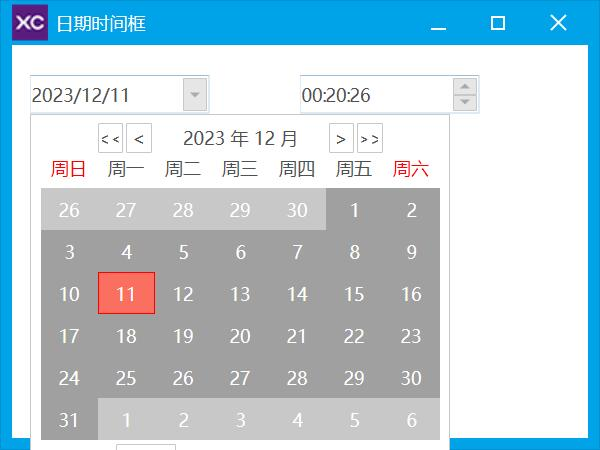
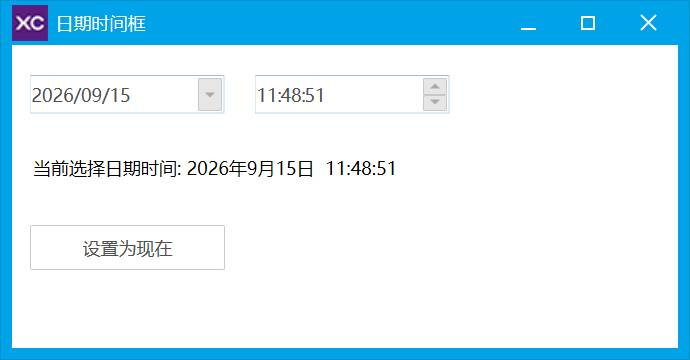
日期时间框

diff --git a/Basic/DateTime/DateTime.go b/Basic/DateTime/DateTime.go
@@ -2,6 +2,9 @@
 package main
 
 import (
+	"fmt"
+	"time"
+
 	"github.com/twgh/xcgui/app"
 	"github.com/twgh/xcgui/widget"
 	"github.com/twgh/xcgui/window"
@@ -14,15 +17,73 @@ func main() {
 	a := app.New(true)
 	a.EnableAutoDPI(true).EnableDPI(true)
 
-	w := window.New(0, 0, 400, 300, "日期时间框", 0, xcc.Window_Style_Default)
+	w := window.New(0, 0, 460, 240, "日期时间框", 0, xcc.Window_Style_Default)
 
-	dt := widget.NewDateTime(20, 50, 120, 26, w.Handle)
-	// 0为日期元素, 1为时间元素.
-	dt.SetStyle(0)
+	dt0 := widget.NewDateTime(20, 50, 130, 26, w.Handle)
+	// 0为日期元素
+	dt0.SetStyle(0)
 
-	dt2 := widget.NewDateTime(200, 50, 120, 26, w.Handle)
-	// 0为日期元素, 1为时间元素.
-	dt2.SetStyle(1)
+	dt1 := widget.NewDateTime(170, 50, 130, 26, w.Handle)
+	// 1为时间元素
+	dt1.SetStyle(1)
+
+	// 用形状文本显示当前选择的结果
+	stResult := widget.NewShapeText(20, 100, 420, 24, "当前选择:", w.Handle)
+
+	// 读取两个日期时间框的当前值并刷新到界面.
+	// GetDateEx 返回 (year, month, day int32), GetTimeEx 返回 (hour, minute, second int32).
+	updateText := func() {
+		y, m, d := dt0.GetDateEx()
+		h, mi, s := dt1.GetTimeEx()
+		stResult.SetText(fmt.Sprintf("当前选择日期时间: %d年%d月%d日  %02d:%02d:%02d", y, m, d, h, mi, s))
+		// 修改元素显示内容后必须重绘, 否则界面不刷新
+		stResult.Redraw()
+	}
+
+	// 日期时间元素内容改变事件, 用户在控件上修改日期或时间时触发.
+	dt0.AddEvent_DateTime_Change(func(hEle int, pbHandled *bool) int {
+		updateText()
+		return 0
+	})
+
+	// 两个调节器按钮加上点击事件
+	widget.NewButtonByHandle(dt1.GetButton(1)).AddEvent_BnClick(func(hEle int, pbHandled *bool) int {
+		updateText()
+		return 0
+	})
+	widget.NewButtonByHandle(dt1.GetButton(2)).AddEvent_BnClick(func(hEle int, pbHandled *bool) int {
+		updateText()
+		return 0
+	})
+
+	// 按键抬起事件, 当用户在控件上按下键盘按键并抬起时触发.
+	dt1.AddEvent_KeyUp(func(hEle int, wParam, lParam uintptr, pbHandled *bool) int {
+		// 只处理数字键盘按键.
+		if wParam < xcc.VK_0 && wParam > xcc.VK_9 {
+			return 0
+		}
+		if wParam < xcc.VK_Numpad0 && wParam > xcc.VK_Numpad9 {
+			return 0
+		}
+		updateText()
+		return 0
+	})
+
+	// 按钮: 用 SetDate/SetTime 把两个控件设置为系统当前日期和时间.
+	btnSet := widget.NewButton(20, 150, 130, 30, "设置为现在", w.Handle)
+	btnSet.AddEvent_BnClick(func(hEle int, pbHandled *bool) int {
+		n := time.Now()
+		// SetDate(年, 月, 日) 设置日期控件的值.
+		dt0.SetDate(int32(n.Year()), int32(n.Month()), int32(n.Day()))
+		// SetTime(时, 分, 秒) 设置时间控件的值.
+		dt1.SetTime(int32(n.Hour()), int32(n.Minute()), int32(n.Second()))
+		// SetDate 也会触发内容改变事件, 这里再刷新一次保证显示同步.
+		updateText()
+		return 0
+	})
+
+	// 初始显示一次当前值.
+	updateText()
 
 	w.ShowWindow(xcc.SW_SHOW)
 	a.Run()
